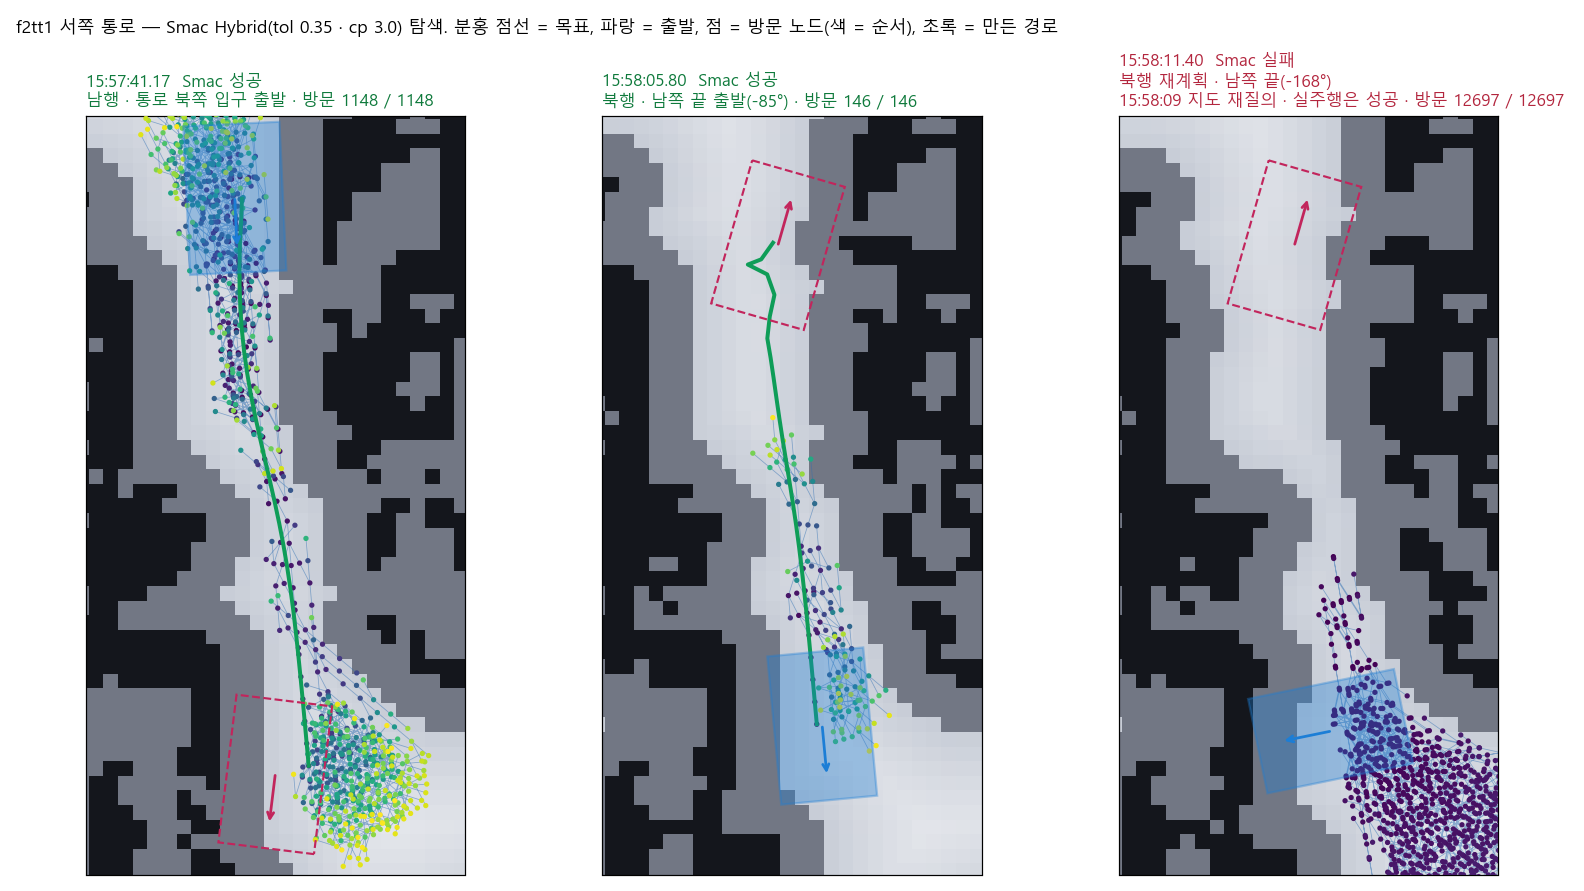
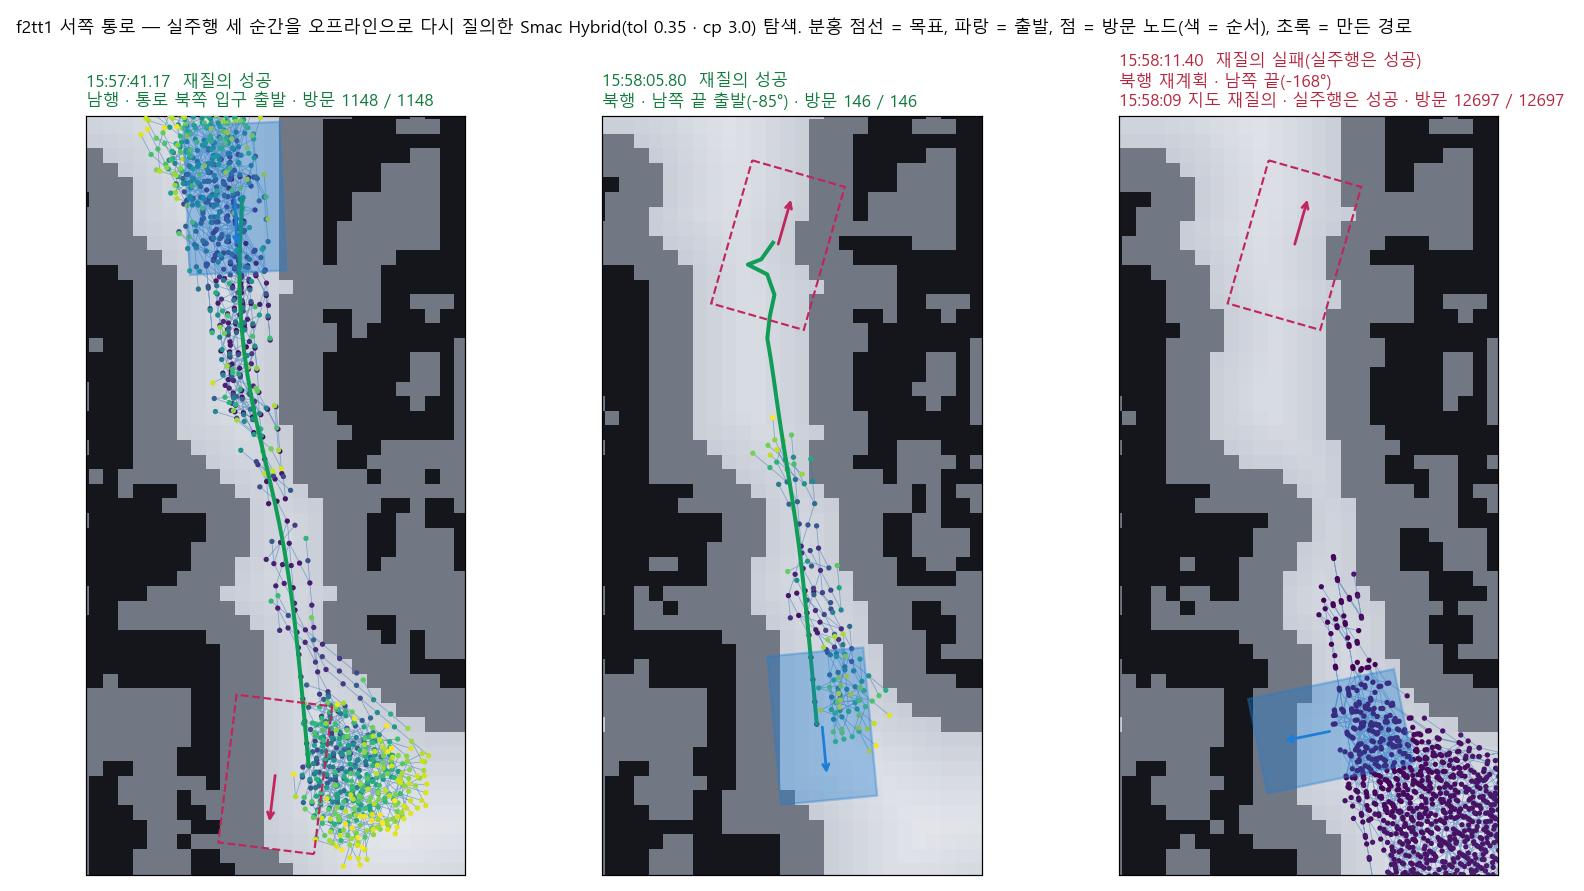
10-27 §28 탐색 영상 세 번째 칸 = 오프라인 재질의 실패(덩어리 남은 09 판 지도 · 출발 경계), 실주행은 Smac 성공 — 이름표 정정
Claude-Session: https://claude.ai/code/session_01KWQmAZCE2vxYuVEwKt2nZZ

Changed region(s): [[0.0928, 0.0, 0.6806, 0.1212], [0.7734, 0.0, 0.8971, 0.0909]]

diff --git a/Docs/debug_log/2026-10-27/jobs/chk_replan_maps.py b/Docs/debug_log/2026-10-27/jobs/chk_replan_maps.py
@@ -1,0 +1,51 @@
+#!/usr/bin/env python3
+"""chk_replan_maps — §28 f2tt1 15:58:11.40 북행 재계획: 실주행 Smac 은 성공, 오프라인 재질의는 실패 — 지도 판마다 무엇이 다른가 (2026-10-27, PC).
+  15:58:07~15:58:14 의 전역 코스트맵(발행본) 판마다:
+    · 출발 자세(15:58:11.40 map→base_link)의 중심 칸 값 · 차체 외곽 칸 최대 값 (Smac: 중심 ≥ 99(내접 253) 이면 충돌 · 외곽은 100(254) 이면 충돌)
+    · 실주행 Smac 경로(/plan 15:58:11.40 직후, 점 간격 > 0.04)가 지나는 칸 중 99 · 100 칸 수와 처음 걸리는 점
+    · PathBlockedAhead 가 본 (-1.60, -4.70) 칸 값
+  인자: bag폴더"""
+import sys, math, time
+import numpy as np
+from pathlib import Path
+from rosbags.highlevel import AnyReader
+from rosbags.typesys import Stores, get_typestore
+day = '2026-10-27 '; T = lambda s: time.mktime(time.strptime(day + s[:8], '%Y-%m-%d %H:%M:%S')) + float(s[8:] or 0)
+hs = lambda t: time.strftime('%H:%M:%S', time.localtime(t)) + '.%02d' % int((t % 1) * 100)
+def yaw(q): return math.atan2(2 * (q.w * q.z + q.x * q.y), 1 - 2 * (q.y * q.y + q.z * q.z))
+FP = np.array([[0.262, 0.165], [0.262, -0.165], [-0.248, -0.165], [-0.248, 0.165]])
+GM, PL, mo, ob = [], [], [], []
+with AnyReader([Path(sys.argv[1])], default_typestore=get_typestore(Stores.ROS2_HUMBLE)) as rd:
+    for c, t, raw in rd.messages(connections=[c for c in rd.connections if c.topic in ('/global_costmap/costmap', '/plan', '/tf')]):
+        ts = t * 1e-9
+        if not T('15:58:05') <= ts <= T('15:58:15'): continue
+        m = rd.deserialize(raw, c.msgtype)
+        if c.topic == '/tf':
+            for tr in m.transforms:
+                v = (ts, tr.transform.translation.x, tr.transform.translation.y, yaw(tr.transform.rotation))
+                if tr.header.frame_id == 'map' and tr.child_frame_id == 'odom': mo.append(v)
+                elif tr.header.frame_id == 'odom' and tr.child_frame_id == 'base_link': ob.append(v)
+        elif c.topic == '/plan':
+            P = np.array([[p.pose.position.x, p.pose.position.y] for p in m.poses]); PL.append((ts, P))
+        else:
+            i = m.info; GM.append((ts, np.array(m.data, np.int16).reshape(i.height, i.width), i.origin.position.x, i.origin.position.y, i.resolution))
+def pose(t):
+    a = min(mo, key=lambda x: abs(x[0] - t)); b = min(ob, key=lambda x: abs(x[0] - t)); c, s = math.cos(a[3]), math.sin(a[3])
+    return a[1] + c * b[1] - s * b[2], a[2] + s * b[1] + c * b[2], a[3] + b[3]
+t0 = T('15:58:11.40'); sx, sy, sa = pose(t0)
+live = [p for p in PL if p[0] >= t0 - 0.05 and len(p[1]) > 3 and np.median(np.hypot(*np.diff(p[1], axis=0).T)) > 0.04][0]
+print('출발 자세(15:58:11.40) map (%.3f, %.3f, %.1f°) · 실주행 Smac 경로 %s 점 %d' % (sx, sy, math.degrees(sa), hs(live[0]), len(live[1])))
+# 경로를 2 cm 간격으로 촘촘히
+P = live[1]; seg = np.hypot(*np.diff(P, axis=0).T); L = np.r_[0, np.cumsum(seg)]; s = np.arange(0, L[-1], 0.02)
+PP = np.c_[np.interp(s, L, P[:, 0]), np.interp(s, L, P[:, 1])]
+c, sn = math.cos(sa), math.sin(sa); edge = []
+for (x0, y0), (x1, y1) in zip(FP, np.roll(FP, -1, axis=0)):
+    for u in np.linspace(0, 1, 15): edge.append((x0 + u * (x1 - x0), y0 + u * (y1 - y0)))
+E = np.array(edge); EW = np.c_[sx + c * E[:, 0] - sn * E[:, 1], sy + sn * E[:, 0] + c * E[:, 1]]
+for ts, G, ox, oy, r in GM:
+    v = lambda x, y: int(G[int((y - oy) / r), int((x - ox) / r)])
+    cen = v(sx, sy); fpm = max(v(x, y) for x, y in EW)
+    pv = np.array([v(x, y) for x, y in PP]); k99 = np.nonzero(pv >= 99)[0]
+    first = ('처음 %.2f m 지점 (%.2f, %.2f) 값 %d' % (s[k99[0]], PP[k99[0], 0], PP[k99[0], 1], pv[k99[0]])) if len(k99) else '없음'
+    print('%s 판 | 출발 중심 %d · 차체 외곽 최대 %d | 실주행 경로 위 99 칸 %d · 100 칸 %d (%s) | (-1.60,-4.70) 값 %d' % (
+        hs(ts), cen, fpm, int((pv == 99).sum()), int((pv == 100).sum()), first, v(-1.60, -4.70)))

diff --git a/Docs/debug_log/2026-10-27/jobs/fig_smac_expansion_tt1.py b/Docs/debug_log/2026-10-27/jobs/fig_smac_expansion_tt1.py
@@ -54,9 +54,10 @@ for f, u in enumerate(steps):
     fg, axs = plt.subplots(1, 3, figsize=(14.4, 8.1))
     for a, d in zip(axs, D):
         done = u >= len(d['W']); ok = len(d['sp']) > 0
-        t = '%s  %s\n%s · 방문 %d / %d' % (TIME[d['k']], ('Smac 성공' if ok else 'Smac 실패') if done else '탐색 중', WHERE[d['k']], min(u, len(d['W'])), len(d['W']))
+        # 10-27 §28: 모든 칸은 '오프라인 재질의' 결과 — 실주행 결과와 헷갈리지 않게 상태 글자에 명시(사용자 지적: 통로 영상은 Smac 계속, 이 영상은 실패)
+        t = '%s  %s\n%s · 방문 %d / %d' % (TIME[d['k']], ('재질의 성공' if ok else '재질의 실패(실주행은 성공)') if done else '재질의 탐색 중', WHERE[d['k']], min(u, len(d['W'])), len(d['W']))
         draw(a, d, int(u), t, ('#0f7a3c' if ok else '#b3263e') if done else '#1b1f24')
-    fg.suptitle('f2tt1 서쪽 통로 — Smac Hybrid(tol 0.35 · cp 3.0) 탐색. 분홍 점선 = 목표, 파랑 = 출발, 점 = 방문 노드(색 = 순서), 초록 = 만든 경로', x=0.01, ha='left', fontsize=11.5)
+    fg.suptitle('f2tt1 서쪽 통로 — 실주행 세 순간을 오프라인으로 다시 질의한 Smac Hybrid(tol 0.35 · cp 3.0) 탐색. 분홍 점선 = 목표, 파랑 = 출발, 점 = 방문 노드(색 = 순서), 초록 = 만든 경로', x=0.01, ha='left', fontsize=11.5)
     fg.tight_layout(); fg.savefig('%s/f%04d.png' % (tmp, f), dpi=100)
     if LAST and f == len(steps) - 1: fg.savefig(LAST, dpi=110)
     plt.close(fg)

diff --git a/Docs/debug_log/2026-10-27/SUMMARY.md b/Docs/debug_log/2026-10-27/SUMMARY.md
@@ -394,3 +394,20 @@
 | 같은 순간 — 계획 시각과 같은 15:58:11.40 판 지도 | 〃 | **실패 · 방문 0**(즉시 — 출발 칸 쪽 문제로 추정, 미확인) |
 
 - 읽기: 북행 첫 계획(−85°, 남쪽을 보고 선 채 출발)은 146 노드로 바로 풀림 — 10-26 · f2st1 의 북행 실패(남쪽 주머니 −102° · −183° 출발)와 출발 자세가 다름. 재계획 순간은 실주행에선 성공했지만 오프라인 두 지도 모두 재현 안 됨 → 그 순간 계획기 내부 지도(발행본과 다를 수 있음) · 출발 자세의 몇 cm · 몇 도 차에 민감한 경계 사례로 봄(미확인).
+
+## §28 사용자: "f2tt1_corridor_light_x2 는 Smac 으로 계속 진행, smac_expansion_tt1 은 중간에 실패 — 어떻게 된 것인가?"
+- 답: **실주행은 15:58:11.40 재계획도 Smac 성공**(bag /plan 점 간격 0.072 · 26 점, `outputs/drives/f2tt1/chk_corr_paths_f2tt1.txt`). 탐색 영상 세 번째 칸은 그 순간을 **오프라인으로 다시 질의한 결과**이고, 재질의 조건이 실주행과 달라 실패했다.
+- 판별 `jobs/chk_replan_maps.py` → `outputs/tt1_exp/chk_replan_maps.txt`(15:58:05~14 전역 코스트맵 발행본마다 출발 자세 비용 · 실주행 Smac 경로가 지나는 칸 · 막힘 칸 (−1.60, −4.70)):
+  - 15:58:08.39 · **15:58:09.40 판**: 실주행 경로 위 0.88 m 지점 (−1.59, −4.63) 부터 **99(내접) 칸 4 개**, (−1.60, −4.70) = 99 — 15:58:08.39 PathBlockedAhead 가 본 덩어리. 오프라인 첫 재질의(장면 '직전 지도' 규칙 → 09.40 판)는 이 덩어리로 좁은 곳이 막혀 12 697 노드 뒤 실패.
+  - **15:58:11.40 판**: 경로 위 99 칸 **0**, (−1.60, −4.70) = 84 — 덩어리가 사라짐. 실주행 계획기는 이 지도(재계획 시각)로 계획해서 성공.
+  - 같은 11.40 판 재질의(tt1_158114b): 'Starting point in lethal space!' 로 방문 0 즉시 실패. 출발 자세 차체 외곽 칸 최대가 모든 판에서 100(치명) — 로버가 벽에서 약 3 cm(이 주행 통로 최소 정확 여유 3.1 cm 가 바로 15:58:09.5 이 자리) 라 Smac 의 5° 방향 칸 반올림 · 칸 단위 외곽 검사에서 걸렸다 안 걸렸다 하는 경계. 실주행 계획기 내부 지도 · 그 순간 자세의 mm · 도 차이로 통과한 것으로 추정(내부 지도는 bag 에 없어 미확인).
+- 내 실수 · 정정(영상 이름표):
+
+| 칸 | 내용 |
+|---|---|
+| 하려 한 것 | f2tt1 통로 세 순간의 Smac 탐색을 보이기(`jobs/fig_smac_expansion_tt1.py`) |
+| 본 것 | 세 번째 재질의가 실패 |
+| 처음 한 것 | 칸 제목에 'Smac 실패' 로 쓰고 아랫줄에 '실주행은 성공' 을 덧붙임 |
+| 문제 | 제목만 보면 실주행에서 실패한 것으로 읽힘 — 통로 영상(실주행)과 모순으로 보임(사용자 지적) |
+| 결론 | 이 영상의 모든 칸은 재질의 — 상태를 '재질의 성공 / 재질의 실패(실주행은 성공)' 로, 큰 제목에 '실주행 세 순간을 오프라인으로 다시 질의한' 을 넣어 다시 렌더링(`videos/smac_expansion_tt1.mp4`, `figures/smac_expansion_tt1_end.png`) |
+| 다음에 알아보는 법 | 재질의 · 재생 결과를 그릴 때는 상태 글자에 출처(실주행 / 재질의)를 붙인다. 재질의가 실주행과 다르면 먼저 지도 판 · 출발 자세 차이를 본다(장면은 '직전 발행 지도' — 계획 시각과 최대 1~2 s 차) |
